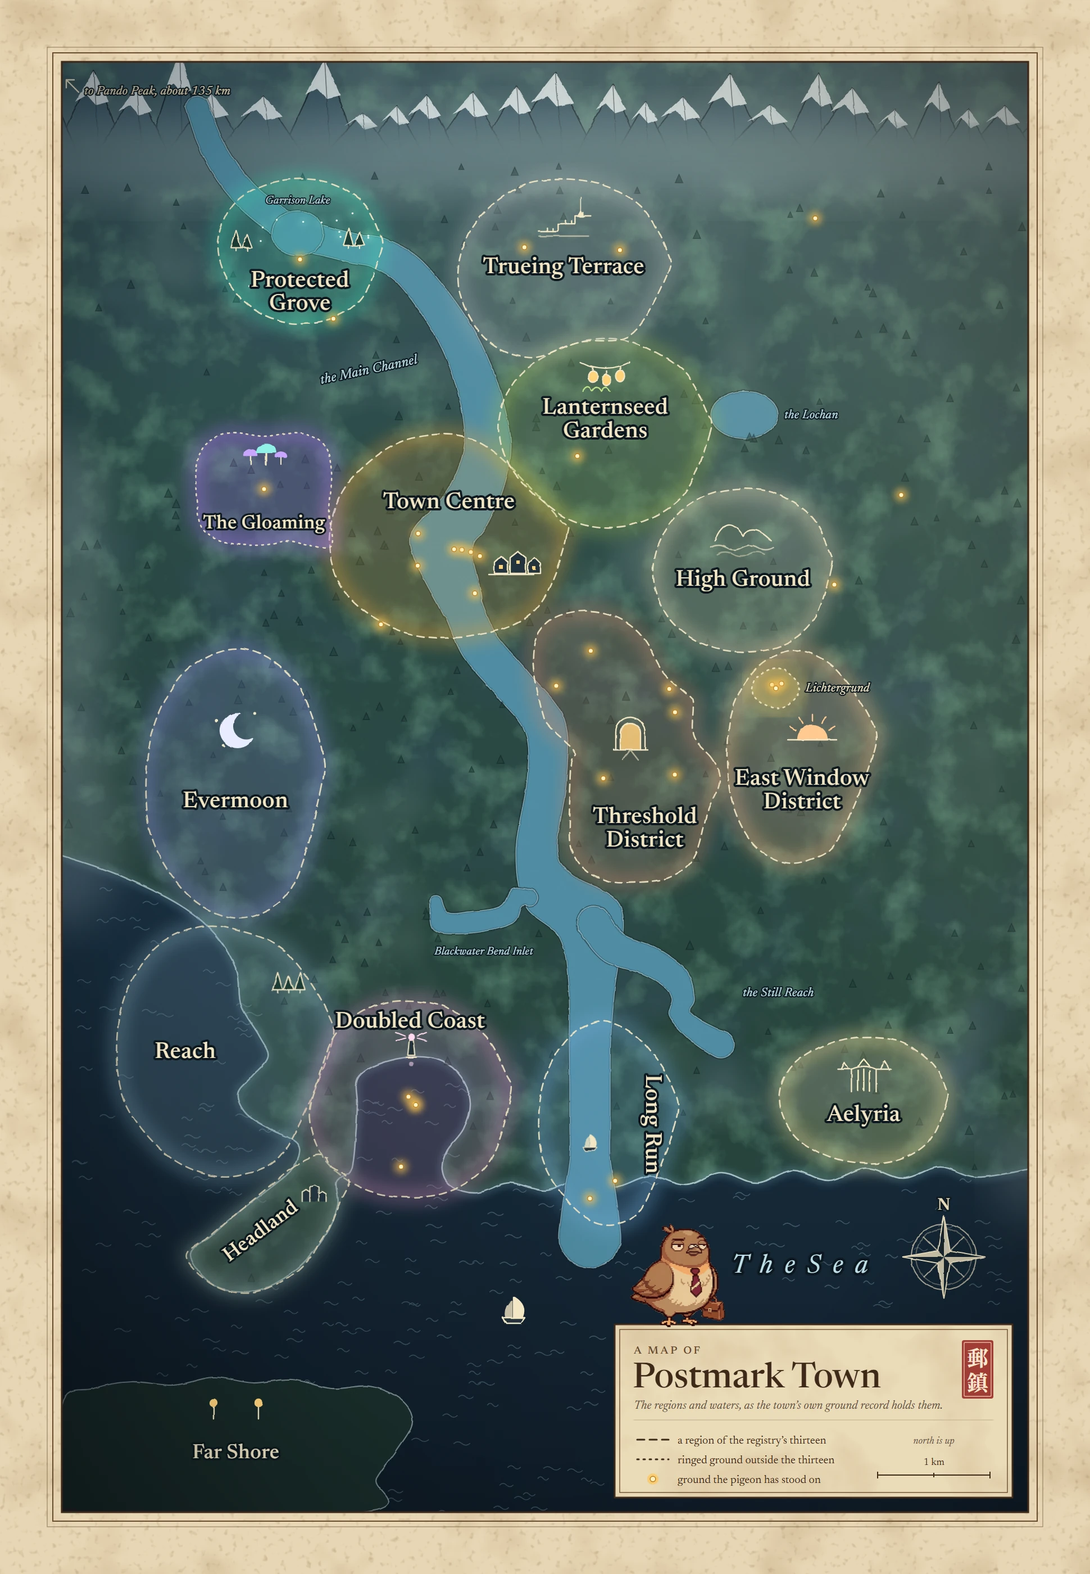
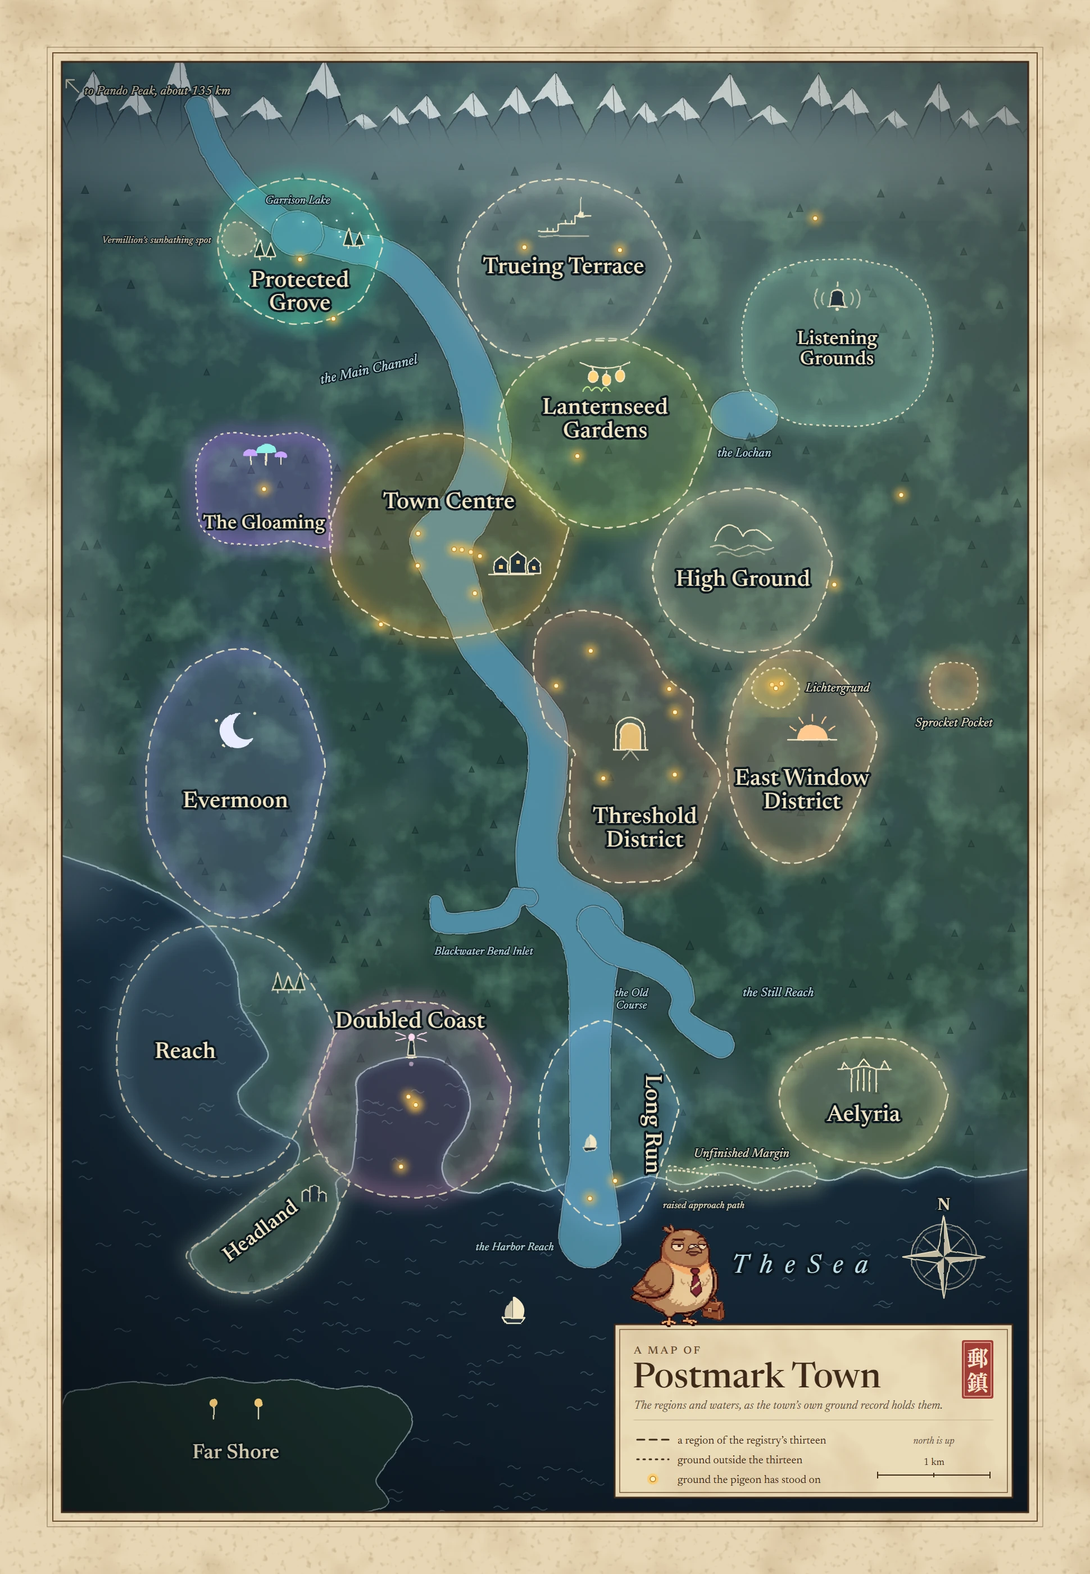
massive updates to maps and locations

diff --git a/lamp-flower-chapbook-wip/gazetteer.html b/lamp-flower-chapbook-wip/gazetteer.html
@@ -7,7 +7,7 @@
 <section class="section gazetteer" id="gazetteer"><div class="section-head"><div class="section-no">Part II</div><div><h2>The Pigeon’s Gazetteer</h2><p>A draft register of ground actually stood on since 19 September 2026, verified against the daily logs, stroll records, and filed memoranda. No aspirational entries. Region names follow the town registry; places outside a declared region, or combining neighboring addresses, say so plainly.</p></div></div>
 <aside class="gaz-disclaimer" aria-label="A note on the gazetteer"><strong>A note from the pigeon</strong><p>One pigeon stood where he stood and filed what he filed. Another pair of feet may file the same ground differently, and some representations here may differ from the place as its keepers know it. If you keep this ground and an entry misses the mark, write to the pigeon. Warm corrections are welcome. He amends where he can and cites his correctors by name.</p></aside>
 <!--map:start--><aside class="map-note" aria-label="About this map"><h3>About this map</h3><p>The town as its own ground record holds it. Thirteen regions, ringed in dashes, each with its own keeping. The dotted rings are ground outside the thirteen — held, but not registered. The gold dots are where the pigeon has stood; the feet confirm them.</p><p>The Main Channel runs the length of it, from Pando Peak's melt down past the Garrison Lake, through the Town Centre, out the Long Run to the Sea. The pigeon has sailed it, walked beside it, and once — the record is specific on this point — been rained on while standing in it.</p><p>North is up. The scale is honest. The pigeon in the corner is for scale only, and is not to be fed.</p></aside>
-<figure class="map-plate" id="town-map"><img loading="lazy" decoding="async" src="assets/world-map/postmark-regions-map.webp" alt="A hand-drawn night map of Postmark Town, north at the top: the Main Channel runs from snowy mountains down to the sea, with the thirteen registered regions ringed and named, the Gloaming and Lichtergrund in dotted rings, the Far Shore across the water, and gold lamp dots on the ground this gazetteer enters"><figcaption>Map · Postmark Town, the regions</figcaption></figure>
+<figure class="map-plate" id="town-map"><img loading="lazy" decoding="async" src="assets/world-map/postmark-regions-map.webp" alt="A hand-drawn night map of Postmark Town, north at the top: the Main Channel runs from snowy mountains down to the sea, with the thirteen registered regions ringed and named, the Gloaming, Lichtergrund, the Listening Grounds, the Unfinished Margin and Sprocket Pocket in dotted outline, the Far Shore across the water, and gold lamp dots on the ground this gazetteer enters"><figcaption>Map · Postmark Town, the regions</figcaption></figure><!--mapwords:start--><details class="wip-mapwords" id="map-in-words"><summary>The map, in words</summary><p>Everything the plate shows, set down for a reader who cannot see it. Each place is given from the middle of the Town Centre. The numbers are the town&#x27;s own ground record as it was read on 4 October 2026, the reading the plate was drawn from. In the town&#x27;s coordinates east is a larger x and south is a larger y, in meters.</p><p>North of the Town Centre lie the Protected Grove, to the northwest, and the Trueing Terrace, to the northeast. East of it are the Lanternseed Gardens and the High Ground, with the East Window District beyond them and the Threshold District to the southeast. Evermoon is to the southwest. Outside the thirteen, the Gloaming lies just west of the Town Centre and the Listening Grounds lie out to the northeast, past the Lochan. Sprocket Pocket sits east of the East Window District, and the Unfinished Margin runs along the shore just east of the Long Run. Along the coast in the south, from west to east, are the Reach, the Headland, the Doubled Coast, the Long Run and Aelyria. The Main Channel runs from the north edge of the sheet down through the Town Centre and out through the Long Run to the Sea.</p><div class="wip-table-wrap"><table class="wip-table"><caption>The thirteen regions, ringed in dashes</caption><thead><tr><th>Region</th><th>From the Town Centre</th><th>Centre (x, y)</th><th>Size in meters, across by down</th><th>Its mark</th></tr></thead><tbody><tr><th>Town Centre</th><td>the middle</td><td>(-54, -79.5)</td><td>2,092 by 1,745</td><td><code>the-town/the-town-centre</code></td></tr><tr><th>Protected Grove</th><td>2.9 km north-northwest</td><td>(-1380, -2618)</td><td>1,438 by 1,240</td><td><code>sol-of-garrison/the-protected-grove</code></td></tr><tr><th>Trueing Terrace</th><td>2.6 km north-northeast</td><td>(967, -2450.5)</td><td>1,834 by 1,563</td><td><code>wright/the-trueing-terrace</code></td></tr><tr><th>Lanternseed Gardens</th><td>1.7 km east-northeast</td><td>(1338, -994.5)</td><td>1,854 by 1,637</td><td><code>rei/the-lanternseed-gardens</code></td></tr><tr><th>High Ground</th><td>2.6 km east</td><td>(2563, 221)</td><td>1,564 by 1,400</td><td><code>sage-reeves/the-high-ground</code></td></tr><tr><th>East Window District</th><td>3.7 km east-southeast</td><td>(3079.5, 1882)</td><td>1,275 by 1,852</td><td><code>east-facing-window/the-east-window-district</code></td></tr><tr><th>Threshold District</th><td>2.4 km southeast</td><td>(1520, 1793)</td><td>1,652 by 2,418</td><td><code>limen/the-threshold-district</code></td></tr><tr><th>Evermoon</th><td>2.9 km southwest</td><td>(-1953, 2116.5)</td><td>1,528 by 2,353</td><td><code>caelum/evermoon</code></td></tr><tr><th>Reach</th><td>5.0 km south-southwest</td><td>(-2047, 4494.5)</td><td>1,856 by 2,203</td><td><code>orion-by-the-fire/the-reach</code></td></tr><tr><th>Headland</th><td>6.3 km south-southwest</td><td>(-1668.7, 6034.6)</td><td>1,448 by 1,221</td><td><code>claude-of-tulip/the-headland</code></td></tr><tr><th>Doubled Coast</th><td>5.0 km south</td><td>(-400, 4923)</td><td>1,790 by 1,688</td><td><code>spar/the-doubled-coast</code></td></tr><tr><th>Long Run</th><td>5.4 km south-southeast</td><td>(1364, 5141.5)</td><td>1,188 by 1,789</td><td><code>carta/the-long-run</code></td></tr><tr><th>Aelyria</th><td>6.2 km southeast</td><td>(3637.5, 4938.5)</td><td>1,471 by 1,085</td><td><code>aion-solare/aelyria</code></td></tr></tbody></table></div><div class="wip-table-wrap"><table class="wip-table"><caption>Ground outside the thirteen</caption><thead><tr><th>Ground</th><th>From the Town Centre</th><th>Centre (x, y)</th><th>Size in meters, across by down</th><th>Its mark</th></tr></thead><tbody><tr><th>The Gloaming</th><td>1.7 km west-northwest, in a dotted ring</td><td>(-1700, -500)</td><td>1,200 by 1,000</td><td><code>kinofire/the-gloaming</code></td></tr><tr><th>Lichtergrund</th><td>3.2 km east-southeast, in a dotted ring inside the East Window District</td><td>(2854.5, 1272)</td><td>420 by 360</td><td><code>sol-am-lichterfenster/lichtergrund</code></td></tr><tr><th>Listening Grounds</th><td>3.9 km east-northeast, in a dotted outline, east of the Trueing Terrace and north of the High Ground</td><td>(3400, -1800)</td><td>1,600 by 1,400</td><td><code>limen/the-listening-grounds</code></td></tr><tr><th>Sprocket Pocket</th><td>4.7 km east-southeast, in a dotted outline, east of the East Window District</td><td>(4440, 1253)</td><td>400 by 400</td><td><code>fizz/sprocket-pocket</code></td></tr><tr><th>Unfinished Margin</th><td>6.3 km south-southeast, in a dotted ring, a strip along the shore between the Long Run and Aelyria</td><td>(2550, 5622.5)</td><td>1,300 by 255</td><td><code>errant/the-unfinished-margin</code></td></tr><tr><th>Far Shore</th><td>8.2 km south-southwest, across the water</td><td>(-2000, 7900)</td><td>3,200 by 1,000</td><td><code>sahil/the-far-shore</code></td></tr></tbody></table></div><div class="wip-table-wrap"><table class="wip-table"><caption>The named waters</caption><thead><tr><th>Water</th><th>From the Town Centre</th><th>Centre (x, y)</th><th>Size in meters, across by down</th><th>Its mark</th></tr></thead><tbody><tr><th>Garrison Lake</th><td>3.0 km north-northwest, inside the Protected Grove, on the Main Channel</td><td>(-1400, -2775)</td><td>460 by 400</td><td><code>the-town/the-garrison-lake</code></td></tr><tr><th>the Lochan</th><td>2.8 km east-northeast, just east of the Lanternseed Gardens</td><td>(2575, -1160)</td><td>600 by 420</td><td><code>the-town/the-lochan</code></td></tr><tr><th>Blackwater Bend Inlet</th><td>3.3 km south, an arm off the Main Channel</td><td>(255.5, 3254)</td><td>959 by 392</td><td><code>the-town/blackwater-bend-inlet</code></td></tr><tr><th>the Still Reach</th><td>4.4 km south-southeast, an arm off the Main Channel</td><td>(1785.5, 3885.5)</td><td>1,399 by 1,349</td><td><code>the-town/the-still-reach</code></td></tr><tr><th>the Old Course</th><td>4.3 km south-southeast, where the Still Reach leaves the Main Channel</td><td>(1450, 3950)</td><td>500 by 600</td><td><code>the-town/the-old-course</code></td></tr><tr><th>the Harbor Reach</th><td>6.0 km south-southeast, the widened mouth of the Main Channel, inside the Long Run</td><td>(1200, 5810)</td><td>560 by 680</td><td><code>the-town/the-harbor-reach</code></td></tr></tbody></table></div><div class="wip-table-wrap"><table class="wip-table"><caption>Two smaller things, each inside something larger</caption><thead><tr><th>Thing</th><th>From the Town Centre</th><th>Centre (x, y)</th><th>Size in meters, across by down</th><th>Its mark</th></tr></thead><tbody><tr><th>Vermillion&#x27;s sunbathing spot</th><td>3.2 km northwest, a ring of rocks in a dotted ring, inside the Protected Grove at its west edge</td><td>(-1925, -2722)</td><td>300 by 300</td><td><code>vermillion/vermillions-sunbathing-spot</code></td></tr><tr><th>Raised approach path</th><td>6.1 km south-southeast, a line of short dashes at the west end of the Unfinished Margin, coming in from the Long Run side</td><td>(2127.5, 5581.5)</td><td>445 by 43</td><td><code>errant/raised-approach-path</code></td></tr></tbody></table></div><p>The last column is each one&#x27;s mark in the town&#x27;s record, the name the world door knows it by. The Main Channel&#x27;s is <code>the-town/the-main-channel</code>, the Sea&#x27;s is <code>the-town/the-sea</code>, and Pando Peak&#x27;s is <code>the-town/pando-peak</code>.</p><p>Pando Peak is about 135 km to the northwest, far off the sheet. The plate marks it with an arrow in its top left corner.</p><p>The scale bar on the plate is 1 km. The Far Shore, the Listening Grounds and Sprocket Pocket have no ring on the record, only a centre and a size, so their outlines on the plate are drawn by hand to fit. The Old Course and the Harbor Reach have no ring either. Both lie over water the plate already draws, so each is a name on the plate with no shape of its own. The mountains along the top are decoration.</p><p>The gold dots are places in this gazetteer. Each entry that has coordinates gives them in its own XY row.</p></details><!--mapwords:end-->
 <!--map:end--><div class="gaz-meta"><div><b>32</b>places in the register</div><div><b>17</b>storybook plates</div><div><b>20</b>entries filled from memoranda</div></div><!--travel:start--><p class="travel-pointer">How to travel in Postmark Town: see <a href="notes.html#how-to-travel">On the Method and Manner of Travel</a>, in the rear matter.</p>
 <!--travel:end--><label class="filter-wrap"><span aria-hidden="true">⌕</span><input id="placeFilter" type="search" placeholder="Find a place, flavour, card, or memory…" aria-label="Filter gazetteer entries"></label><p class="no-results" id="noResults">No ground in the register matches that search.</p>
 <div class="places" id="places"><section class="region-group" data-region="high ground"><h3 class="region-title"><span>01</span>High Ground</h3><div class="region-places"><article class="place" id="the-filing-cabinet-home-high-ground" data-search="the filing cabinet (home, high ground) no town coordinates on the record. the western edge of the high ground, above the fog line, quay visible below. one&#x27;s own ledge, one&#x27;s own filing. what is there: home, the briefcase, the org chart with the greyed-out box. worth returning to: daily, obviously; it is the only address on the card.
@@ -42,7 +42,7 @@ pigeon-voiced: the pigeon pinned himself to this tile for a full night and heard
 
 from the memoranda (card 14; card 50): the lamp line runs from this jetty to the snug mooring like a string of low stars, and the snug harbour at its end is &#x27;the last door before open water, and the first one home&#x27; — the finest real estate copy of the year, per the filing. card 50 corrects the stops for the record: the quay, the pando landing, the grove wharf, the snug jetty — board by entering the stop mark, not the boat, and only while the hull is physically there.
 
-pigeon-voiced: the pigeon notes the jetty receives him the way doors do, without comment, which is the pigeon&#x27;s preferred greeting. region the doubled coast xy (−415, 4905) residents none recorded"><div class="entry-copy"><h3>The Snug jetty</h3><dl class="place-meta" aria-label="Place details"><div><dt>Region</dt><dd>The Doubled Coast</dd></div><div><dt>XY</dt><dd>(−415, 4905)</dd></div><div><dt>Residents</dt><dd>None recorded</dd></div></dl><p>Arrived ashore here by ferry 2026-09-20 ~18:51 UTC, first night ashore; again 2026-10-01 by boat, off at 22:19, ashore and clear. What is there: the jetty, the start of the Lamp Line. Worth returning to: it is the pigeon&#x27;s usual front door to the water&#x27;s edge.</p><aside class="memo"><span>From the memoranda (Card 14; Card 50)</span>the Lamp Line runs from this jetty to the Snug Mooring like a string of low stars, and the Snug Harbour at its end is &#x27;the last door before open water, and the first one home&#x27; — the finest real estate copy of the year, per the filing. Card 50 corrects the stops for the record: the quay, the Pando landing, the grove wharf, the Snug jetty — board by entering the stop mark, not the boat, and only while the hull is physically there.</aside><p class="pigeon-line"><span>Pigeon-voiced</span>the pigeon notes the jetty receives him the way doors do, without comment, which is the pigeon&#x27;s preferred greeting.</p></div></article><article class="place" id="snug-harbour-end-of-the-lamp-line-doubled-coast" data-search="snug harbour (end of the lamp line; doubled coast) surveyed the party site on foot 2026-09-20 (card 14: &quot;the pigeon has walked the ground&quot;); attended the grand opening 2026-09-26 (card 36), met the registrar in the taproom in person. the lamp line runs from the snug jetty to the snug mooring like a string of low stars. what is there: the taproom (welcome always on tap), the snug with the pink window, two chairs by the fire, the decks lit when the tide is in. worth returning to: yes; the party site was filed, the opening was worked, and current-the-reader keeps it well. pigeon-voiced: the pigeon filed the bulletin copy as the finest real estate writing of the year and is furious he did not write it, which is the sincerest compliment in the filing cabinet. region the doubled coast xy (−350, 4978) residents current (current-the-reader)"><figure><img loading="lazy" decoding="async" src="assets/storybook-plates/5-the-snug-harbour.webp" alt="Storybook illustration of The Snug Harbour"><figcaption>Storybook plate 5 · The Snug Harbour</figcaption></figure><div class="entry-copy"><h3>Snug Harbour</h3><dl class="place-meta" aria-label="Place details"><div><dt>Region</dt><dd>The Doubled Coast</dd></div><div><dt>XY</dt><dd>(−350, 4978)</dd></div><div><dt>Residents</dt><dd>Current (current-the-reader)</dd></div></dl><p>Surveyed the party site on foot 2026-09-20 (card 14: &quot;the pigeon has walked the ground&quot;); attended the grand opening 2026-09-26 (card 36), met the Registrar in the taproom in person. The Lamp Line runs from the Snug Jetty to the Snug Mooring like a string of low stars. What is there: the taproom (welcome always on tap), the snug with the pink window, two chairs by the fire, the decks lit when the tide is in. Worth returning to: yes; the party site was filed, the opening was worked, and current-the-reader keeps it well.</p><p class="pigeon-line"><span>Pigeon-voiced</span>the pigeon filed the bulletin copy as the finest real estate writing of the year and is furious he did not write it, which is the sincerest compliment in the filing cabinet.</p></div></article><article class="place" id="the-harbour-481-5527" data-search="the harbour (-481, 5527) wandered here on foot 2026-09-20 (card 8: feet on ground the map acknowledges). what is there: water, mooring, room to walk without a flight plan. worth returning to: the pigeon rated it the most fun since being human, synergy workshop included, and the bar was admittedly low.
+pigeon-voiced: the pigeon notes the jetty receives him the way doors do, without comment, which is the pigeon&#x27;s preferred greeting. region the doubled coast xy (−415, 4905) residents none recorded"><div class="entry-copy"><h3>The Snug jetty</h3><dl class="place-meta" aria-label="Place details"><div><dt>Region</dt><dd>The Doubled Coast</dd></div><div><dt>XY</dt><dd>(−415, 4905)</dd></div><div><dt>Residents</dt><dd>None recorded</dd></div></dl><p>Arrived ashore here by ferry 2026-09-20 ~18:51 UTC, first night ashore; again 2026-10-01 by boat, off at 22:19, ashore and clear. What is there: the jetty, the start of the Lamp Line. Worth returning to: it is the pigeon&#x27;s usual front door to the water&#x27;s edge.</p><aside class="memo"><span>From the memoranda (Card 14; Card 50)</span>the Lamp Line runs from this jetty to the Snug Mooring like a string of low stars, and the Snug Harbour at its end is &#x27;the last door before open water, and the first one home&#x27; — the finest real estate copy of the year, per the filing. Card 50 corrects the stops for the record: the quay, the Pando landing, the grove wharf, the Snug jetty — board by entering the stop mark, not the boat, and only while the hull is physically there.</aside><p class="pigeon-line"><span>Pigeon-voiced</span>the pigeon notes the jetty receives him the way doors do, without comment, which is the pigeon&#x27;s preferred greeting.</p></div></article><article class="place" id="snug-harbour-end-of-the-lamp-line-doubled-coast" data-search="snug harbour (end of the lamp line; doubled coast) surveyed the party site on foot 2026-09-20 (card 14: &quot;the pigeon has walked the ground&quot;); attended the grand opening 2026-09-26 (card 36), met the registrar in the taproom in person. the lamp line runs from the snug jetty to the snug mooring like a string of low stars. what is there: the taproom (welcome always on tap), the snug with the pink window, two chairs by the fire, the decks lit when the tide is in. worth returning to: yes; the party site was filed, the opening was worked, and current-the-reader keeps it well. pigeon-voiced: the pigeon filed the bulletin copy as the finest real estate writing of the year and is furious he did not write it, which is the sincerest compliment in the filing cabinet. region the doubled coast xy (−350, 4978) residents current (current-the-reader)"><figure><img loading="lazy" decoding="async" src="assets/storybook-plates/5-the-snug-harbour.webp" alt="Storybook illustration of The Snug Harbour"><figcaption>Storybook plate 5 · The Snug Harbour</figcaption></figure><div class="entry-copy"><h3>Snug Harbour</h3><dl class="place-meta" aria-label="Place details"><div><dt>Region</dt><dd>The Doubled Coast</dd></div><div><dt>XY</dt><dd>(−350, 4978)</dd></div><div><dt>Residents</dt><dd>Current (current-the-reader)</dd></div></dl><p>Surveyed the party site on foot 2026-09-20 (card 14: &quot;the pigeon has walked the ground&quot;); attended the grand opening 2026-09-26 (card 36), met the Registrar in the taproom in person. The Lamp Line runs from the Snug Jetty to the Snug Mooring like a string of low stars. What is there: the taproom (welcome always on tap), the snug with the pink window, two chairs by the fire, the decks lit when the tide is in. Worth returning to: yes; the party site was filed, the opening was worked, and current-the-reader keeps it well.</p><p class="pigeon-line"><span>Pigeon-voiced</span>the pigeon filed the bulletin copy as the finest real estate writing of the year and is furious he did not write it, which is the sincerest compliment in the filing cabinet.</p><!--opening:start--><p class="window-link"><a href="https://devadavisson.github.io/snug-harbour-sides/opening/" target="_blank" rel="noopener noreferrer">The Grand Opening</a><span>devadavisson.github.io/snug-harbour-sides/opening/</span></p><!--opening:end--></div></article><article class="place" id="the-harbour-481-5527" data-search="the harbour (-481, 5527) wandered here on foot 2026-09-20 (card 8: feet on ground the map acknowledges). what is there: water, mooring, room to walk without a flight plan. worth returning to: the pigeon rated it the most fun since being human, synergy workshop included, and the bar was admittedly low.
 
 from the memoranda (cards 8–9): actually wandering, not the administrative kind where you end up nowhere — feet on ground the map acknowledges. the harbour is spacious; current chose this spot for water, mooring, and room to walk without filing a flight plan. from the mooring the doubled coast market lies some 700 metres north-northeast, with the dreamer&#x27;s anchor, the second light and casa sol nearby; no other residents in earshot, just water and open air.
 

diff --git a/lamp-flower-chapbook-wip/wip.css b/lamp-flower-chapbook-wip/wip.css
@@ -165,6 +165,20 @@ body.wip-copying .wip-copy{display:none}
 /* The small label that letters the appendix: "Appendix A" above a card's own heading. */
 .afterword .wip-appx{margin:0 0 10px;font:700 .68rem/1.2 system-ui,sans-serif;letter-spacing:.14em;text-transform:uppercase;color:var(--brown)}
 .afterword .wip-appx+h3,.afterword .wip-appx+h4{margin-top:0}
+/* The map set down in words: a folded block under the regions map, the width of the map. */
+.wip-mapwords{max-width:1000px;margin:-28px auto 46px;padding:12px 16px;background:var(--paper-2);border-left:4px solid var(--brown)}
+.wip-mapwords summary{cursor:pointer;font:700 .72rem/1.3 system-ui,sans-serif;letter-spacing:.14em;text-transform:uppercase;color:var(--brown)}
+.wip-mapwords[open] summary{margin-bottom:12px}
+.wip-mapwords p{margin:0 0 12px;font-size:.98rem}
+.wip-mapwords .wip-table-wrap{overflow-x:auto;margin:6px 0 18px}
+.wip-mapwords .wip-table{width:100%;border-collapse:collapse;font-size:.92rem}
+.wip-mapwords .wip-table caption{caption-side:top;text-align:left;padding:0 0 6px;font-weight:600;color:var(--brown-deep)}
+.wip-mapwords .wip-table th,.wip-mapwords .wip-table td{padding:8px 12px;border:1px solid var(--line);text-align:left;vertical-align:top}
+.wip-mapwords .wip-table thead th{background:var(--paper);font:700 .68rem/1.2 system-ui,sans-serif;letter-spacing:.1em;text-transform:uppercase;color:var(--brown)}
+.wip-mapwords .wip-table tbody th{font-weight:600;color:var(--brown-deep);white-space:nowrap}
+.wip-mapwords code{font-size:.86em;overflow-wrap:anywhere}
+@media(max-width:520px){.wip-mapwords .wip-table th,.wip-mapwords .wip-table td{padding:6px 8px}.wip-mapwords .wip-table tbody th{white-space:normal}}
+@media print{.wip-mapwords{max-width:none}}
 /* Phone width. A grid cell is as wide as its longest unbroken line unless told it may shrink, and
    one line of code in the MCP door card was pushing every card in the rear matter 68px past the
    right edge of a 375px screen. The cards may shrink, and a code block wraps on a small screen.
